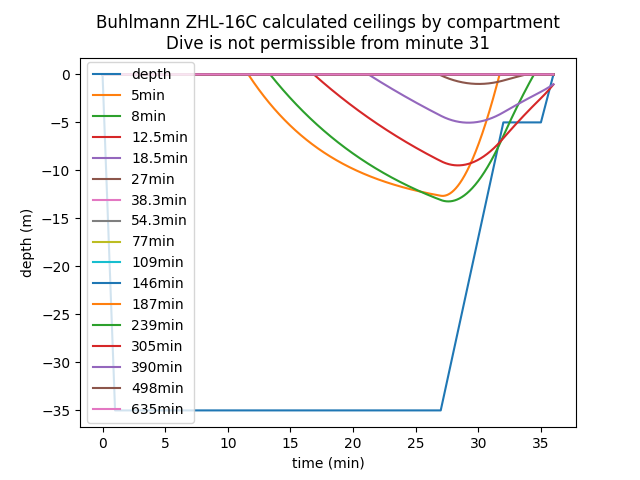
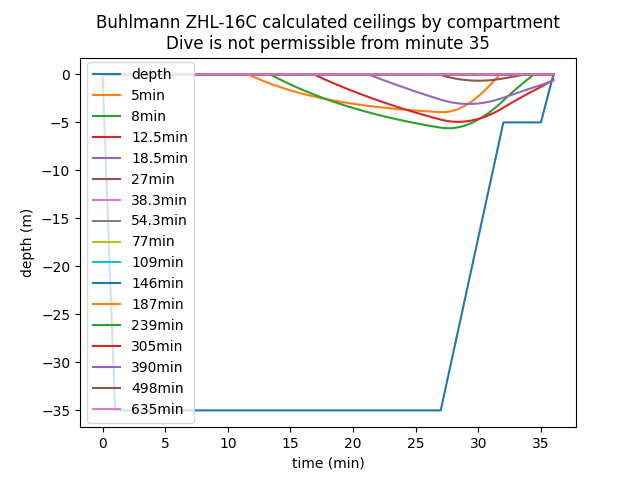
change to divide, after matching with subsurface

Changed region(s): [[0.375, 0.1562, 0.875, 0.4375], [0.75, 0.0625, 0.7812, 0.0938]]

diff --git a/deco.py b/deco.py
@@ -130,7 +130,7 @@ class BuhlmannCompartmentState:
         if equiv_depth < surfacing_m_value:
             return 0
         else:
-            return (equiv_depth - surfacing_m_value) * m_value_slope  # TODO is it times or divide? times is more conservative
+            return (equiv_depth - surfacing_m_value) / m_value_slope  # TODO is it times or divide? times is more conservative
 
     def __repr__(self) -> str:
         return "halftime is " + str(self.compartment) + " ppN2 is " + str(self.ppn2)
